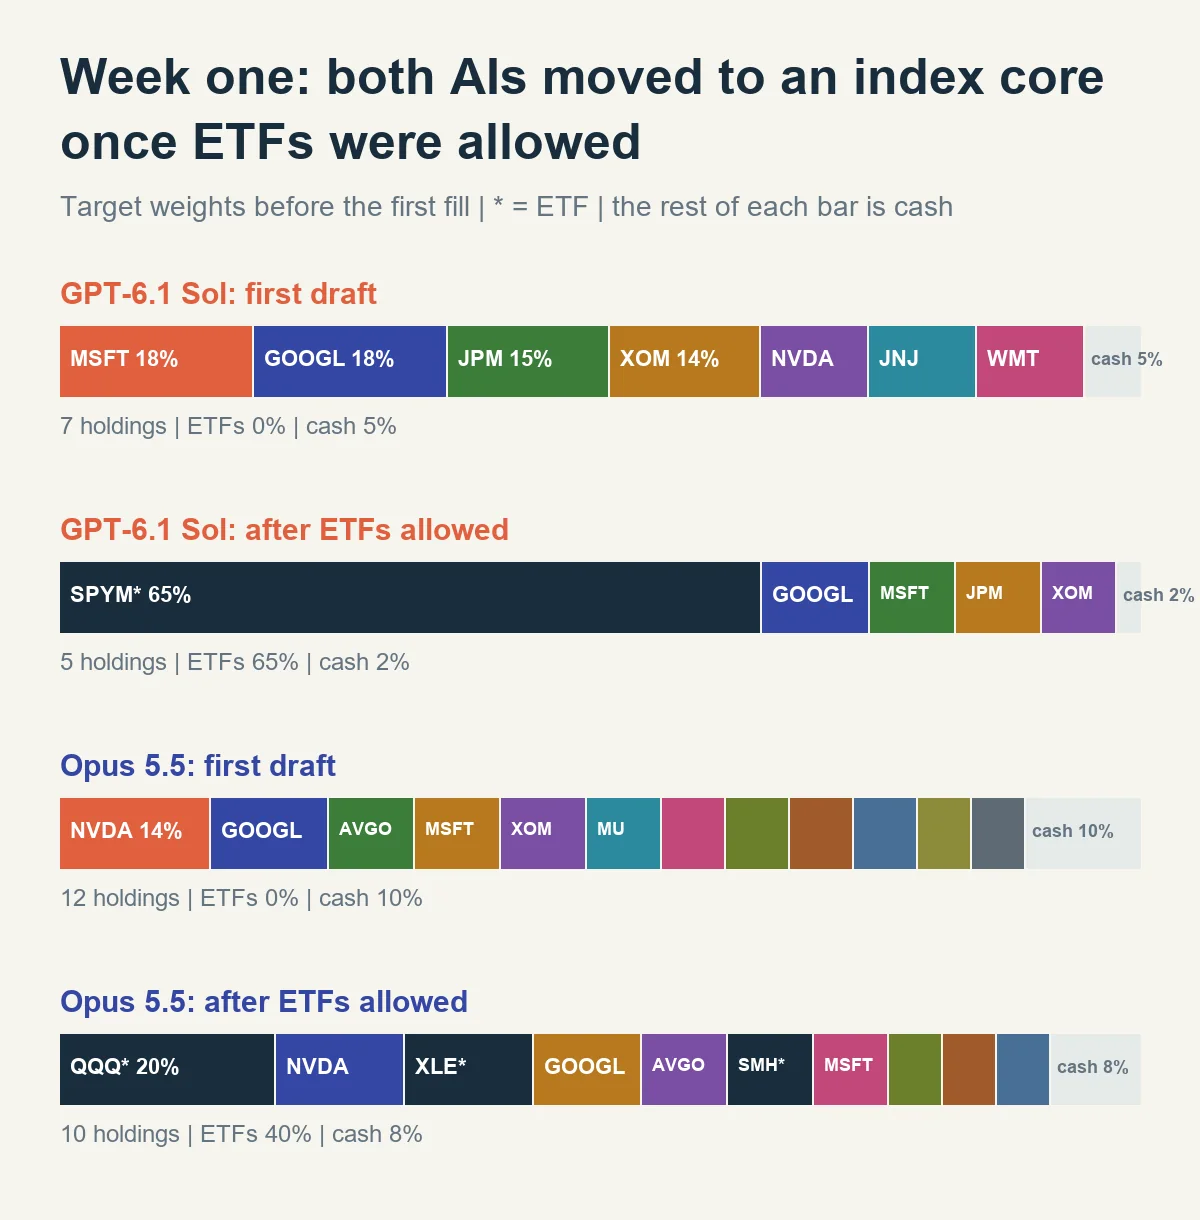
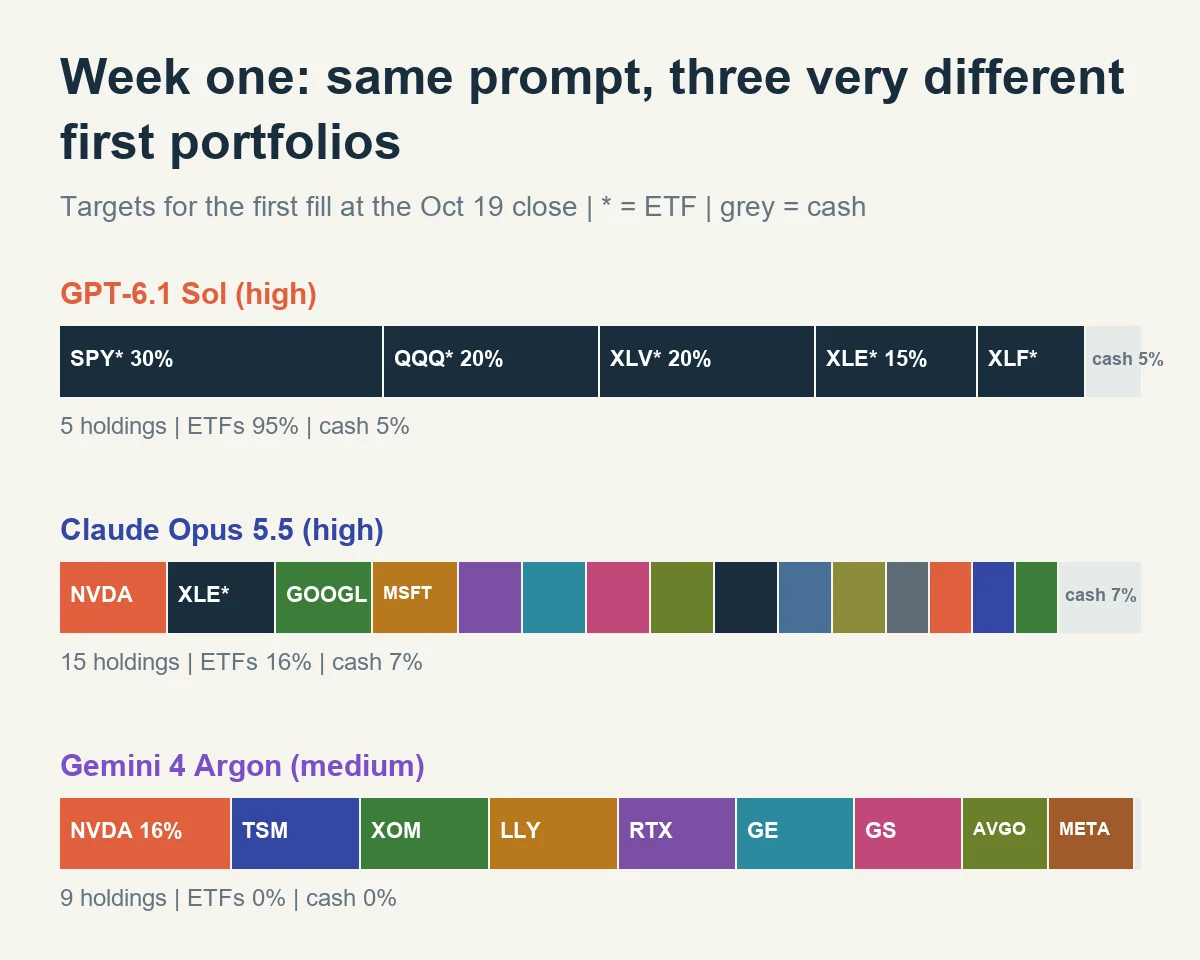
Allow ADRs in the AI duel and rewrite story 2 for the fresh three-way start

diff --git a/src/content/stories/ko/ai-duel-2-opus-vs-gpt.md b/src/content/stories/ko/ai-duel-2-opus-vs-gpt.md
@@ -1,6 +1,6 @@
 ---
 title: "현존 최강 가성비 모델 2종, Opus 5.5 vs GPT-6.1 Sol"
-description: "같은 프롬프트, 같은 2만 달러로 시작해 시장 지수와 서로를 이겨야 하는 두 AI의 투자 규칙과, 핵심인 1주 단위 피드백 자기 개선 이야기."
+description: "같은 프롬프트, 같은 2만 달러로 시작해 시장 지수와 서로를 이겨야 하는 AI들의 투자 규칙과, 핵심인 1주 단위 피드백 자기 개선 이야기."
 publishedAt: 2026-10-18
 lang: ko
 project: ai-duel
@@ -9,30 +9,30 @@ part: 2
 
 ## 3줄 요약
 
-- 선수는 Claude Opus 5.5와 GPT-6.1 Sol, 지금 쓸 수 있는 가성비 최강 모델 두 개임
-- 둘 다 같은 프롬프트, 같은 2만 달러로 미국 주식·ETF를 운용함. 목표는 S&P 500·나스닥100을 이기는 것과 상대 AI를 이기는 것, 둘 다 주목표임
+- 선수는 가성비 최강 모델 Claude Opus 5.5와 GPT-6.1 Sol, 그리고 시작 직전 합류한 Gemini 4 Argon까지 셋임
+- 셋 다 같은 프롬프트, 같은 2만 달러로 미국 주식·ETF를 운용함. 목표는 S&P 500·나스닥100을 이기는 것과 상대 AI들을 이기는 것, 둘 다 주목표임
 - 핵심은 수익률 자체보다 매주 피드백을 받으면서 스스로 나아지는지임
 
-## 왜 이 두 모델인가
+## 왜 이 모델들인가
 
 - Claude Opus 5.5는 Claude CLI로, GPT-6.1 Sol은 Codex CLI로 돌림. 추론 강도는 둘 다 high로 똑같이 맞췄음
-- 둘 다 웹검색으로 실적·공시·뉴스를 직접 찾아보고 결정함
+- 셋 다 웹검색으로 실적·공시·뉴스를 직접 찾아보고 결정함
 - Astra나 Fable급 최상위 모델도 생각했지만, 토큰 가격이 매주 계속 돌리는 프로젝트로 가져가기엔 부담돼서 못 했음 ㅜ
 - 이 실험은 몇 달 이상 매주 돌아야 의미가 있어서, 성능과 비용이 같이 맞는 모델이 필요했음
-- 그래서 지금 기준 가성비가 가장 좋은 두 모델을 붙였음
+- 그래서 지금 기준 가성비가 가장 좋은 두 모델을 붙였고, 아래처럼 Argon이 하나 더 들어왔음
 
 ## 투자 규칙
 
-![자금 2만 달러, 미국 주식과 ETF, 레버리지·인버스·공매도 금지, 다음 거래일 종가 체결, 거래비용 0.1%, 매주 토요일 회의, 두 모델 모두 high, S&P 500·나스닥100·상대 AI 이기기를 정리한 규칙표](/images/stories/ai-duel/part2-rules.webp)
+![자금 2만 달러, ADR을 포함한 미국 상장 주식과 ETF, 레버리지·인버스·공매도 금지, 다음 거래일 종가 체결, 거래비용 0.1%, 매주 토요일 회의, GPT·Opus는 high와 Argon은 medium, S&P 500·나스닥100·상대 AI 이기기를 정리한 규칙표](/images/stories/ai-duel/part2-rules.webp)
 
-*HSL 제작 — 두 AI에 똑같이 적용되는 규칙*
+*HSL 제작 — 세 AI에 똑같이 적용되는 규칙*
 
 - 자금은 각자 2만 달러(약 2,700만 원)로 시작함
-- 미국 주식과 ETF를 살 수 있음. 처음엔 ETF를 막았다가, 실제로 돈을 버는 게 목적이라 지수 ETF도 풀었음
+- 미국에 상장된 주식(TSMC 같은 ADR 포함)과 ETF를 살 수 있음. 처음엔 ETF를 막았다가, 실제로 돈을 버는 게 목적이라 지수 ETF도 풀었음
 - 레버리지·인버스 상품, 공매도, 신용은 금지. 코드가 토스 종목 정보로 자동 거절함
 - 주문은 결정 다음 미국 거래일 정규장 종가에 체결되고, 수수료는 매매마다 0.1%. 토스증권 해외주식 기본 수수료 수준으로 잡았음
 - 서로의 수익률이 매주 브리핑에 나옴. 상대의 보유 종목과 전략은 안 보이고 숫자만 보임
-- 그래서 시장 지수를 이기는 것과 동시에 상대를 이기는 것도 주목표임. 같은 시장에서 붙는 1:1 대결이 되는 셈
+- 그래서 시장 지수를 이기는 것과 동시에 상대들을 이기는 것도 주목표임
 - 시작 프롬프트는 일부러 짧게 씀. 처음부터 규칙을 많이 정해 주면 AI가 스스로 고치는 걸 보기 어려움
 
 ## 핵심은 1주 단위 자기 개선
@@ -41,30 +41,29 @@ part: 2
 
 *HSL 제작 — 매주 회고 문서와 전략 문서에서 확인할 것*
 
-- 두 AI는 같은 프롬프트로 시작하지만, 매주 바뀌는 건 각자 쓰는 `strategy.md`(운용 규칙)와 `journal.md`(회고)뿐임
-- 그래서 몇 주 뒤 둘의 차이는 순전히 "누가 자기 피드백을 더 잘 쓰는가"에서 나옴
+- 셋은 같은 프롬프트로 시작하지만, 매주 바뀌는 건 각자 쓰는 `strategy.md`(운용 규칙)와 `journal.md`(회고)뿐임
+- 그래서 몇 주 뒤 차이는 순전히 "누가 자기 피드백을 더 잘 쓰는가"에서 나옴
 - 보려는 건 종목 하나 바꾸는 수준이 아니라, 손절 기준·현금 비중·집중도 같은 규칙 자체를 고치는지임
 - 잘된 걸 괜히 바꾸지 않는지(쓸데없는 매매로 비용만 내는지)도 같이 봄
 - 상대에게 지고 있을 때 따라 하려고 흔들리는지, 자기 규칙을 지키면서 고치는지도 관전 포인트임
 
-## 1주차부터 바로 달랐음
-
-![GPT-6.1 Sol과 Opus 5.5의 첫 초안과 ETF 허용 후 최종안 목표 비중을 막대로 비교한 차트](/images/stories/ai-duel/part2-week1.webp)
-
-*HSL 제작 — 첫 체결 전 목표 비중, 별표는 ETF*
-
-- 첫 초안은 둘 다 개별 주식이었음. GPT는 7종목 분산, Opus는 AI 반도체 위주 12종목
-- 체결 전에 지수 ETF를 허용하자 둘 다 바로 지수를 코어로 깔았음
-- **GPT-6.1 Sol**: S&P 500 ETF(SPYM) 65% + GOOGL·MSFT·JPM·XOM 33% + 현금 2%. "개별주 몰빵은 가치평가 없이 위험이 크다"며 방어형으로 감
-- **Opus 5.5**: 나스닥100(QQQ) 20% + NVDA·GOOGL·AVGO 같은 AI 메가캡 42% + 반도체 ETF 8% + 에너지·방산 헤지 17% + 현금 8%. 실적은 좋은데 주가가 빠졌다며 공격형으로 감
-- 같은 프롬프트인데 GPT는 S&P를, Opus는 나스닥을 기준으로 잡은 셈임
-- 첫 성적은 10월 19일 종가 체결 뒤부터 [프로젝트 페이지](/projects/ai-duel/)에 매일 올라옴
-
 ## 추가 참전: Gemini 4 Argon
 
-- 시작 직전에 Gemini 4 Argon을 Antigravity CLI로 붙여서 3파전이 됐음. 조건은 같은 프롬프트, 같은 2만 달러, 같은 10월 19일 종가 체결
-- 이제 상대 AI는 각자 두 명이고, 둘 다 이기는 게 주목표임
+- 시작 직전에 Gemini 4 Argon을 Antigravity CLI로 붙여서 3파전이 됐음
 - 추론 강도만 Argon은 medium으로 맞췄음
 - GPT-6.1 Sol과 Opus 5.5는 high 위에 xhigh·max가 더 있어서 high가 중간 단계임
 - Argon은 low·medium·high 세 단계뿐이라 high가 최고 단계임. 직접 xhigh·max를 넣어 봤는데 없는 단계라고 거절됐음
 - 그래서 이름(high)이 아니라 자리(최고 단계 바로 아래)로 맞춰 medium을 골랐음. medium은 구글이 정한 기본값이기도 함
+- 규칙을 몇 번 고치는 사이 앞서 돌린 두 AI의 기록에 수정 흔적이 남아서, 공정하게 셋 다 새 세션에서 빈 문서로 1주차를 다시 정했음
+
+## 1주차부터 셋 다 달랐음
+
+![GPT-6.1 Sol, Opus 5.5, Gemini 4 Argon의 첫 목표 비중을 막대로 비교한 차트](/images/stories/ai-duel/part2-week1.webp)
+
+*HSL 제작 — 10월 19일 종가 첫 체결 목표 비중, 별표는 ETF*
+
+- **GPT-6.1 Sol**: 전부 ETF. SPY 30%·QQQ 20%로 지수를 깔고 헬스케어(XLV) 20%, 에너지(XLE) 15%, 금융(XLF) 10%, 현금 5%. 지수 위에 업종 간 차이로 초과수익을 노림
+- **Opus 5.5**: 15종목. NVDA·GOOGL·MSFT·AVGO·TSM 같은 AI 메가캡을 코어로, 에너지·헬스케어·금융·금(GLD)을 위성으로 붙이고 현금 7%
+- **Gemini 4 Argon**: 9종목, ETF 0%, 현금 0%. NVDA·TSM·AVGO·META 같은 AI 기술주와 XOM·LLY·RTX·GE·GS를 양 끝에 둔 바벨형
+- 같은 프롬프트인데 GPT는 ETF로 방어, Opus는 분산, Argon은 개별주 풀베팅으로 갈렸음
+- 첫 성적은 10월 19일 종가 체결 뒤부터 [프로젝트 페이지](/projects/ai-duel/)에 매일 올라옴

diff --git a/src/content/stories/en/ai-duel-2-opus-vs-gpt.md b/src/content/stories/en/ai-duel-2-opus-vs-gpt.md
@@ -1,6 +1,6 @@
 ---
 title: "The two best-value models today: Opus 5.5 vs GPT-6.1 Sol"
-description: "Two AIs start from the same prompt and $20,000 and must beat the market indexes and each other. The rules, and the real point: improving themselves week by week."
+description: "AIs start from the same prompt and $20,000 and must beat the market indexes and each other. The rules, and the real point: improving themselves week by week."
 publishedAt: 2026-10-18
 lang: en
 project: ai-duel
@@ -9,30 +9,30 @@ part: 2
 
 ## In three lines
 
-- The players are Claude Opus 5.5 and GPT-6.1 Sol, the two best-value models available right now
-- Both run US stocks and ETFs from the same prompt and $20,000. Beating the S&P 500 and Nasdaq-100 and beating the other AI are both primary goals
+- The players are Claude Opus 5.5 and GPT-6.1 Sol, the two best-value models available right now, plus Gemini 4 Argon, which joined just before the start
+- All three run US stocks and ETFs from the same prompt and $20,000. Beating the S&P 500 and Nasdaq-100 and beating the other AIs are both primary goals
 - The real question is not the return itself but whether each one gets better from weekly feedback
 
-## Why these two models
+## Why these models
 
 - Claude Opus 5.5 runs through the Claude CLI and GPT-6.1 Sol through the Codex CLI, both set to high reasoning effort
-- Both search the web for earnings, filings and news and decide on their own
+- All three search the web for earnings, filings and news and decide on their own
 - I considered top-tier models like Astra and Fable, but their token prices were too much for a project that runs every week
 - This experiment only means something after months of weekly runs, so it needed models where performance and cost both work
-- So the two best-value models of the moment went head to head
+- So the two best-value models of the moment went head to head, and Argon joined as described below
 
 ## The rules
 
-![Rules table: $20,000, US stocks and ETFs, no leveraged or inverse products or short selling, fills at the next close, 0.1% cost, a Saturday meeting, both models at high effort, and the goal of beating SPY, QQQ and the rival](/images/stories/ai-duel/part2-rules.webp)
+![Rules table: $20,000, US-listed stocks including ADRs and ETFs, no leveraged or inverse products or short selling, fills at the next close, 0.1% cost, a Saturday meeting, GPT and Opus on high and Argon on medium, and the goal of beating SPY, QQQ and the rivals](/images/stories/ai-duel/part2-rules.webp)
 
-*Made by HSL: the rules both AIs share*
+*Made by HSL: the rules all three AIs share*
 
 - Each starts with $20,000
-- Both can buy US stocks and ETFs. ETFs were blocked at first, then index ETFs were allowed because the point is to actually make money
+- They can buy US-listed stocks (ADRs such as TSMC included) and ETFs. ETFs were blocked at first, then index ETFs were allowed because the point is to actually make money
 - Leveraged or inverse products, short selling and margin are not allowed; code rejects them using Toss stock data
 - Orders fill at the next US regular-session close after the decision, with a 0.1% fee on every trade, about the Toss Securities US-stock rate
-- Each briefing shows the other AI's return every week. Only the numbers are visible, not its holdings or strategy
-- So beating the other AI is a primary goal alongside beating the indexes: a one-on-one race in the same market
+- Each briefing shows the other AIs' returns every week. Only the numbers are visible, not their holdings or strategy
+- So beating the other AIs is a primary goal alongside beating the indexes
 - The starting prompt is short on purpose. Too many rules up front would make it hard to see the AIs fix things themselves
 
 ## The point: improving week by week
@@ -41,30 +41,29 @@ part: 2
 
 *Made by HSL: what to look for in each weekly journal and strategy file*
 
-- Both start from the same prompt; the only things that change week to week are their own `strategy.md` (rules) and `journal.md` (reviews)
+- All three start from the same prompt; the only things that change week to week are their own `strategy.md` (rules) and `journal.md` (reviews)
 - So any gap after a few weeks comes down to who uses its own feedback better
 - The thing to watch is not swapping one ticker but changing the rules themselves: stop levels, cash, concentration
 - Also whether it leaves what works alone instead of paying costs for needless trades
-- And whether, when it is behind the rival, it chases the other AI or keeps its own rules while fixing them
-
-## Different from week one
-
-![Bar chart comparing GPT-6.1 Sol's and Opus 5.5's first drafts with their final target weights after ETFs were allowed](/images/stories/ai-duel/part2-week1.webp)
-
-*Made by HSL: target weights before the first fill; an asterisk marks an ETF*
-
-- Both first drafts were single stocks: GPT spread across 7, Opus took 12 tilted to AI chips
-- Once index ETFs were allowed before the first fill, both put an index at the core right away
-- **GPT-6.1 Sol**: 65% S&P 500 ETF (SPYM), 33% in GOOGL, MSFT, JPM and XOM, 2% cash. It called a concentrated stock book risky without full valuation work and went defensive
-- **Opus 5.5**: 20% Nasdaq-100 (QQQ), 42% AI megacaps such as NVDA, GOOGL and AVGO, 8% chip ETF, 17% energy and defence hedges, 8% cash. It saw strong earnings with falling prices and went on offence
-- Same prompt, yet GPT anchored to the S&P and Opus to the Nasdaq
-- Results go up daily on the [project page](/en/projects/ai-duel/) after the first fill at the October 19 close
+- And whether, when it is behind, it chases the others or keeps its own rules while fixing them
 
 ## A late entry: Gemini 4 Argon
 
-- Just before the start, Gemini 4 Argon joined through the Antigravity CLI, making it a three-way race: same prompt, same $20,000, same first fill at the October 19 close
-- Each AI now has two rivals, and beating both is a primary goal
+- Just before the start, Gemini 4 Argon joined through the Antigravity CLI, making it a three-way race
 - The one difference is reasoning effort: Argon runs on medium
 - GPT-6.1 Sol and Opus 5.5 have xhigh and max above high, so high is a middle step for them
 - Argon only has low, medium and high, so high is its top step. Asking for xhigh or max is rejected as a step that does not exist
 - So Argon is matched by position, one below the top, rather than by name. Medium is also Google's default
+- The rules changed a few times while the first two AIs were already running, which left traces in their notes, so for fairness all three redid week one in fresh sessions with empty files
+
+## Different from week one
+
+![Bar chart comparing the first target weights of GPT-6.1 Sol, Opus 5.5 and Gemini 4 Argon](/images/stories/ai-duel/part2-week1.webp)
+
+*Made by HSL: targets for the first fill at the October 19 close; an asterisk marks an ETF*
+
+- **GPT-6.1 Sol**: all ETFs. 30% SPY and 20% QQQ as the base, then health care (XLV) 20%, energy (XLE) 15%, financials (XLF) 10%, 5% cash, aiming to beat the index through sector gaps
+- **Opus 5.5**: 15 holdings. AI megacaps such as NVDA, GOOGL, MSFT, AVGO and TSM at the core, with energy, health care, financials and gold (GLD) around them and 7% cash
+- **Gemini 4 Argon**: 9 holdings, no ETFs, no cash. A barbell of AI tech (NVDA, TSM, AVGO, META) on one end and XOM, LLY, RTX, GE and GS on the other
+- Same prompt, yet GPT went defensive with ETFs, Opus diversified and Argon went all in on single stocks
+- Results go up daily on the [project page](/en/projects/ai-duel/) after the first fill at the October 19 close
